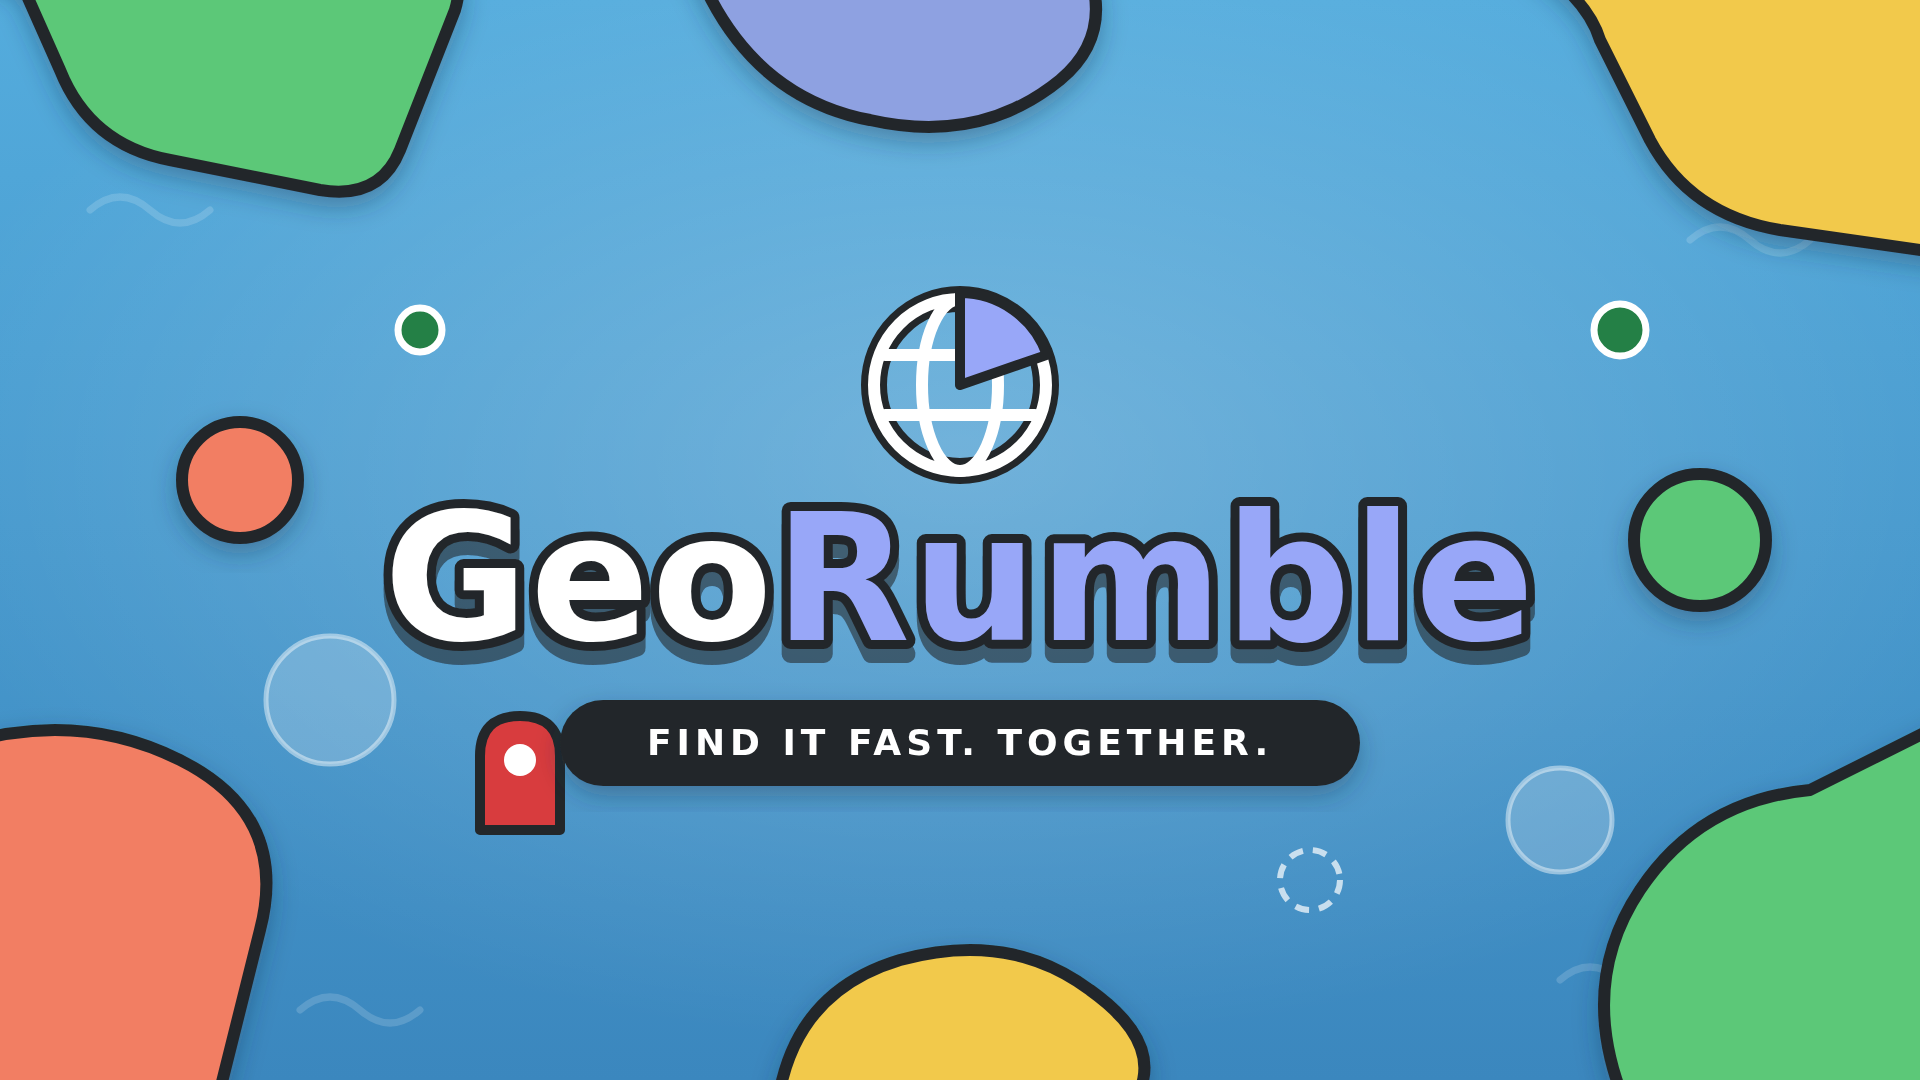
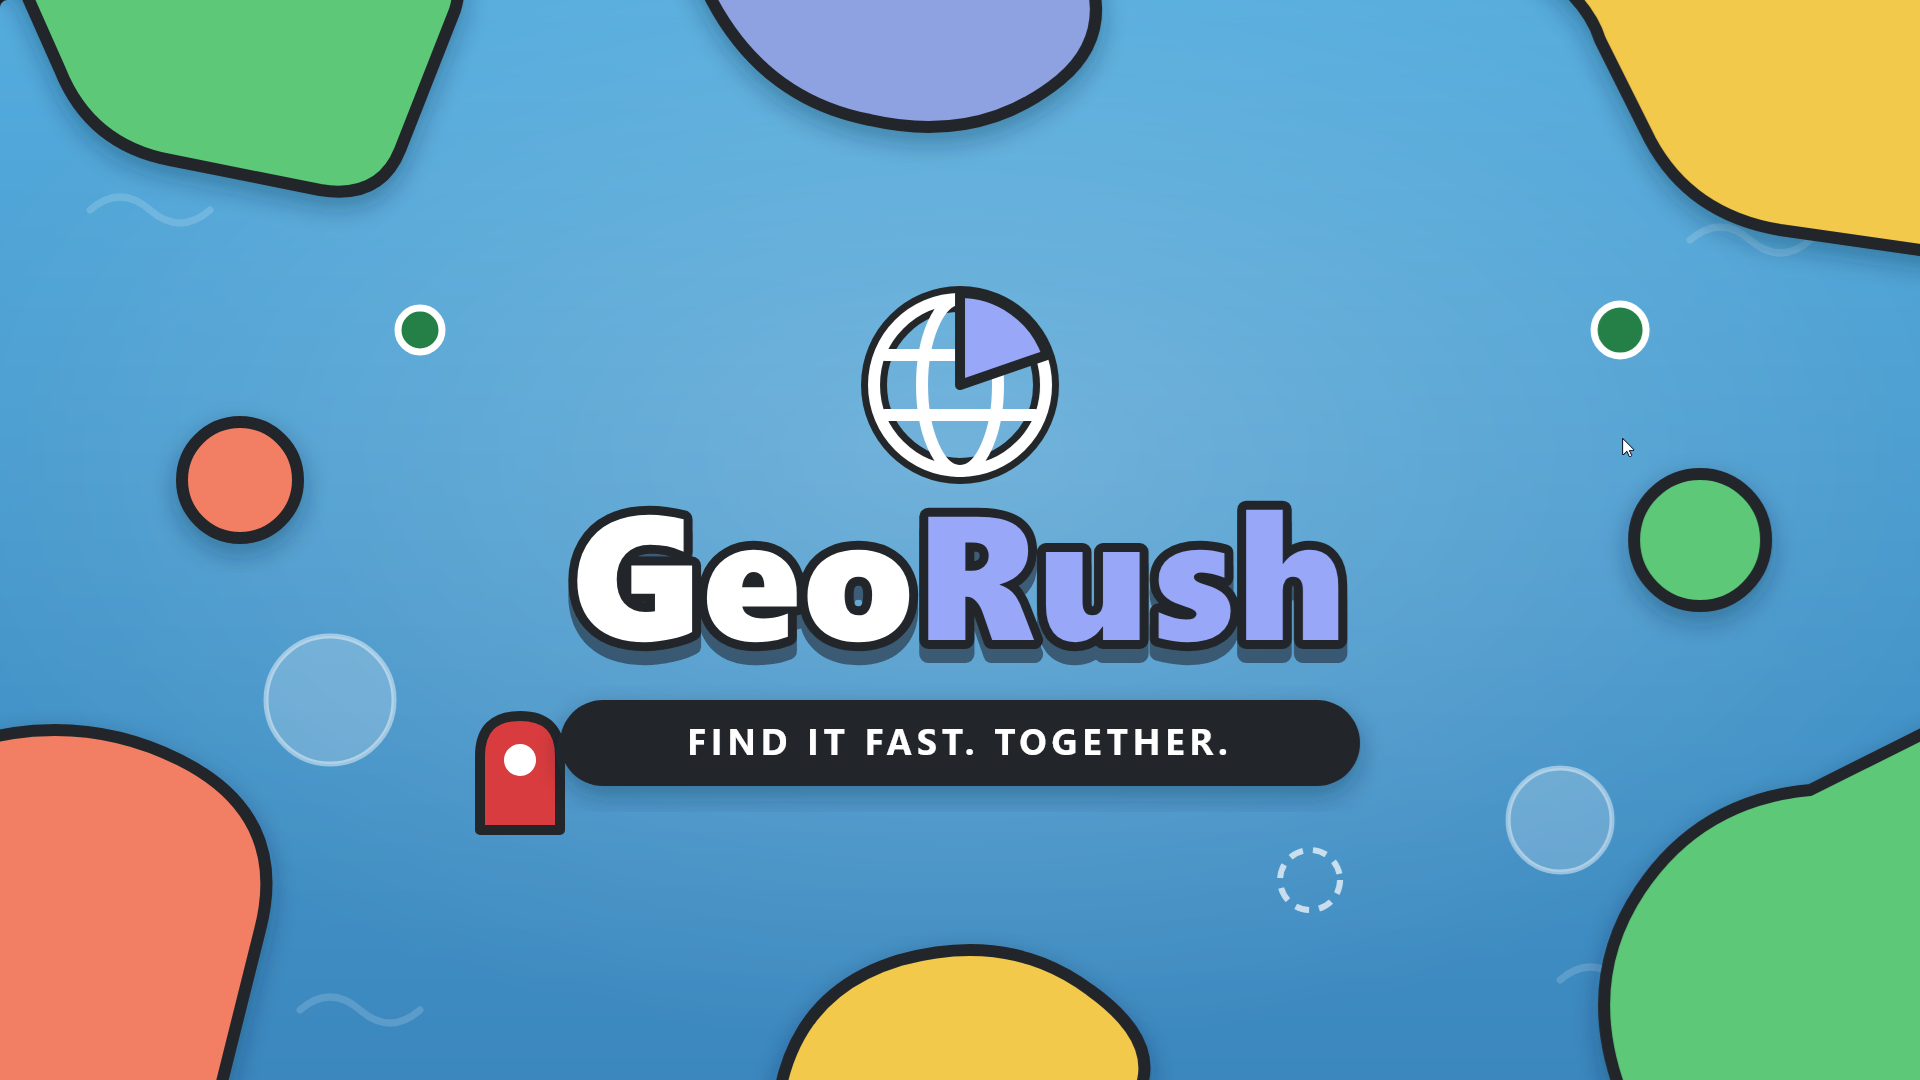
GeoRumble -> GeoRush

Changed region(s): [[0.1875, 0.4583, 0.8125, 0.6417], [0.3125, 0.6722, 0.6562, 0.7028]]

diff --git a/client/src/main.ts b/client/src/main.ts
@@ -15,8 +15,8 @@ import { createPlayScreen } from "./ui/playScreen";
 import { createVictoryScreen } from "./ui/victoryScreen";
 
 const CLIENT_ID = import.meta.env.VITE_DISCORD_CLIENT_ID as string | undefined;
-const NAME_STORAGE_KEY = "georumble:name";
-const ID_STORAGE_KEY = "georumble:userId";
+const NAME_STORAGE_KEY = "georush:name";
+const ID_STORAGE_KEY = "georush:userId";
 
 const RECONNECT_BASE_MS = 1000;
 const RECONNECT_MAX_ATTEMPTS = 6;
@@ -135,7 +135,7 @@ async function resolveIdentity(): Promise<Identity> {
     // that means every player lands in a guest solo room, so say why loudly.
     if (embedded) {
       console.warn(
-        "[georumble] discord sign-in skipped: VITE_DISCORD_CLIENT_ID is not baked into this build",
+        "[georush] discord sign-in skipped: VITE_DISCORD_CLIENT_ID is not baked into this build",
       );
       return { ...fallback, signInFailed: "client id missing from build" };
     }
@@ -156,6 +156,7 @@ async function resolveIdentity(): Promise<Identity> {
     const { code } = await sdk.commands.authorize({
       client_id: CLIENT_ID,
       scope: ["identify", "guilds.members.read"],
+      prompt: "none",
     });
     const tokenResponse = await fetch("/api/token", {
       method: "POST",
@@ -172,7 +173,7 @@ async function resolveIdentity(): Promise<Identity> {
     // sanctioned command, since the activity iframe eats target=_blank.
     setExternalLinkOpener((url) => {
       void sdk.commands.openExternalLink({ url }).catch((error: unknown) => {
-        console.warn("[georumble] openExternalLink failed", error);
+        console.warn("[georush] openExternalLink failed", error);
       });
     });
     let name = auth.user.global_name ?? auth.user.username;
@@ -207,13 +208,13 @@ async function resolveIdentity(): Promise<Identity> {
   } catch (error) {
     // The reason rides into the lobby notice: inside the Discord webview the
     // console is unreachable, and "guest" without a why is undiagnosable.
-    console.warn("[georumble] discord sign-in failed", error);
+    console.warn("[georush] discord sign-in failed", error);
     return { ...fallback, signInFailed: describeError(error).slice(0, 140) };
   }
 }
 
 async function boot(): Promise<void> {
-  console.log(`[georumble] build ${__BUILD_ID__}`);
+  console.log(`[georush] build ${__BUILD_ID__}`);
   const app = document.querySelector<HTMLDivElement>("#app");
   if (!app) {
     throw new Error("#app mount point missing");
@@ -632,5 +633,5 @@ async function boot(): Promise<void> {
 }
 
 boot().catch((error: unknown) => {
-  document.body.textContent = `GeoRumble failed to start: ${String(error)}`;
+  document.body.textContent = `GeoRush failed to start: ${String(error)}`;
 });

diff --git a/client/public/privacy.html b/client/public/privacy.html
@@ -3,7 +3,7 @@
 <head>
 <meta charset="utf-8" />
 <meta name="viewport" content="width=device-width, initial-scale=1" />
-<title>GeoRumble — Privacy Policy</title>
+<title>GeoRush — Privacy Policy</title>
 <style>
   :root { color-scheme: dark; }
   body { margin: 0; background: #171a21; color: #d6dae2; font: 16px/1.65 system-ui, -apple-system, sans-serif; }
@@ -21,7 +21,7 @@
   <h1>Privacy Policy</h1>
   <p class="meta">Last updated: August 23, 2026</p>
 
-  <p>GeoRumble is a collaborative geography quiz you play inside Discord voice channels
+  <p>GeoRush is a collaborative geography quiz you play inside Discord voice channels
   (as a Discord Activity) or in your browser. This policy explains what we handle,
   why, and for how long. In short: we collect as little as possible, keep most of it
   only for the length of a game, and never sell or advertise against your data.</p>
@@ -68,7 +68,7 @@
   <p>We do not send these providers anything beyond what is needed to run a session.</p>
 
   <h2>Children</h2>
-  <p>GeoRumble is played through Discord and follows Discord's age policies. The game is
+  <p>GeoRush is played through Discord and follows Discord's age policies. The game is
   not directed at children under 13 (or the equivalent minimum age in your region), and
   we do not knowingly collect data from them.</p>
 
@@ -78,7 +78,7 @@
     <li>Room state cannot be tied back to you once the room ends — it is deleted, not
       archived.</li>
     <li>For questions or deletion requests, open an issue at
-      <a href="https://github.com/Arham4/georumble">github.com/Arham4/georumble</a>.</li>
+      <a href="https://github.com/Losers-Lab/georush">github.com/Losers-Lab/georush</a>.</li>
   </ul>
 
   <h2>Changes</h2>

diff --git a/client/public/terms.html b/client/public/terms.html
@@ -3,7 +3,7 @@
 <head>
 <meta charset="utf-8" />
 <meta name="viewport" content="width=device-width, initial-scale=1" />
-<title>GeoRumble — Terms of Service</title>
+<title>GeoRush — Terms of Service</title>
 <style>
   :root { color-scheme: dark; }
   body { margin: 0; background: #171a21; color: #d6dae2; font: 16px/1.65 system-ui, -apple-system, sans-serif; }
@@ -21,7 +21,7 @@
   <h1>Terms of Service</h1>
   <p class="meta">Last updated: August 23, 2026</p>
 
-  <p>Welcome to GeoRumble, a collaborative geography quiz played as a Discord Activity
+  <p>Welcome to GeoRush, a collaborative geography quiz played as a Discord Activity
   or in a browser. By using the game, you agree to these terms. If you don't agree,
   please don't use it.</p>
 
@@ -46,7 +46,7 @@
 
   <h2>Content and licenses</h2>
   <ul>
-    <li>The GeoRumble software, branding, and design belong to the project owner. All
+    <li>The GeoRush software, branding, and design belong to the project owner. All
       rights reserved except as needed for you to play.</li>
     <li>Map data in the shipped quiz packs is derived from public-domain sources
       (the <em>us-atlas</em> project). Geography is hard enough without copyright
@@ -77,7 +77,7 @@
 
   <h2>Contact</h2>
   <p>Questions about these terms? Open an issue at
-  <a href="https://github.com/Arham4/georumble">github.com/Arham4/georumble</a>.</p>
+  <a href="https://github.com/Losers-Lab/georush">github.com/Losers-Lab/georush</a>.</p>
 </main>
 </body>
 </html>

diff --git a/client/src/ui/linkButtons.ts b/client/src/ui/linkButtons.ts
@@ -1,6 +1,6 @@
 /** Community invite and source repo, shown on the boot and lobby screens. */
 export const DISCORD_INVITE_URL = "https://discord.gg/wGQfD6aacx";
-export const GITHUB_URL = "https://github.com/Losers-Lab/georumble";
+export const GITHUB_URL = "https://github.com/Losers-Lab/georush";
 
 // GitHub's official mark-github octicon (16x16 path data).
 const GITHUB_MARK =
@@ -53,7 +53,7 @@ export function createDiscordInviteLink(): HTMLAnchorElement {
 export function createGithubLink(): HTMLAnchorElement {
   const link = externalLink(GITHUB_URL);
   link.classList.add("github-corner");
-  link.title = "GeoRumble on GitHub";
+  link.title = "GeoRush on GitHub";
   link.setAttribute("aria-label", "Source on GitHub");
   const svg = document.createElementNS("http://www.w3.org/2000/svg", "svg");
   svg.setAttribute("viewBox", "0 0 16 16");

diff --git a/assets/brand/store/cover.html b/assets/brand/store/cover.html
@@ -81,7 +81,7 @@
   <text x="960" y="640" text-anchor="middle" font-size="176" font-weight="800" letter-spacing="2"
         stroke="#23272A" stroke-width="18" stroke-linejoin="round" paint-order="stroke"
         filter="url(#titleShadow)" font-family="system-ui, 'DejaVu Sans', sans-serif">
-    <tspan fill="#FFFFFF">Geo</tspan><tspan fill="#98A7F8">Rumble</tspan>
+    <tspan fill="#FFFFFF">Geo</tspan><tspan fill="#98A7F8">Rush</tspan>
   </text>
 
   <g filter="url(#softShadow)">

diff --git a/client/src/audio/sfx.ts b/client/src/audio/sfx.ts
@@ -2,7 +2,7 @@
 // background music — just interaction confirmation. The context is lazy
 // (created on the first gesture-driven call, per autoplay policy) and the
 // mute state persists per device.
-const MUTED_KEY = "georumble:sfx-muted";
+const MUTED_KEY = "georush:sfx-muted";
 
 let ctx: AudioContext | null = null;
 let muted = false;

diff --git a/client/index.html b/client/index.html
@@ -5,7 +5,7 @@
     <meta name="viewport" content="width=device-width, initial-scale=1.0, viewport-fit=cover" />
     <meta name="theme-color" content="#23272A" />
     <link rel="icon" type="image/svg+xml" href="/brand/favicon.svg" />
-    <title>GeoRumble</title>
+    <title>GeoRush</title>
   </head>
   <body>
     <div id="app"></div>

diff --git a/client/src/ui/victoryScreen.ts b/client/src/ui/victoryScreen.ts
@@ -4,7 +4,7 @@ import { createCarryWheel } from "./carryWheel";
 import { launchConfetti } from "./confetti";
 import { sfx } from "../audio/sfx";
 
-const BEST_PREFIX = "georumble:best:";
+const BEST_PREFIX = "georush:best:";
 
 function loadBest(packId: string): number | null {
   try {

diff --git a/docs/research/discord-activities.md b/docs/research/discord-activities.md
@@ -111,7 +111,7 @@ const auth = await discordSdk.commands.authenticate({ access_token });
 `expires_in` is seconds; the example shows 604800 (7 days). Refresh with `grant_type=refresh_token` + `refresh_token`. Revoke via `https://discord.com/api/oauth2/token/revoke`.
 - <https://docs.discord.com/developers/topics/oauth2>
 
-**Scopes relevant to GeoRumble** (descriptions quoted from the OAuth2 scope table; scope list cross-checked against SDK v2.5.0's `OAuthScopes` union):
+**Scopes relevant to GeoRush** (descriptions quoted from the OAuth2 scope table; scope list cross-checked against SDK v2.5.0's `OAuthScopes` union):
 - `identify` — "allows /users/@me without email". Needed to identify the local player. Required by `userSettingsGetLocale` and `CURRENT_USER_UPDATE` event.
 - `applications.commands` — "allows your app to add commands to a guild - included by default with the bot scope". Requested by the official Activity tutorial.
 - `guilds` — "allows /users/@me/guilds …"; also the scope required by `getChannel` for guild channels.
@@ -150,7 +150,7 @@ Constructor options (SDK v2.5.0): `{ disableConsoleLogOverride: boolean }` — s
 **Properties available immediately after construction** (before `ready()`): `clientId`, `instanceId`, `customId`, `referrerId`, `platform` (`'web' | 'ios' | 'android'`), `guildId`, `channelId`, `locationId`, `sdkVersion`, `mobileAppVersion`, `configuration`, `commands`.
 - SDK v2.5.0 `Discord.d.ts` / `interface.d.ts`
 
-**Key commands** (full table in the reference; the ones GeoRumble needs):
+**Key commands** (full table in the reference; the ones GeoRush needs):
 
 | Command | Args → Response | Scopes | Notes |
 |---|---|---|---|
@@ -168,7 +168,7 @@ Constructor options (SDK v2.5.0): `{ disableConsoleLogOverride: boolean }` — s
 - <https://docs.discord.com/developers/developer-tools/embedded-app-sdk>
 - SDK v2.5.0 `Discord.d.ts`
 
-**Enumerating other players (the important one for GeoRumble).**
+**Enumerating other players (the important one for GeoRush).**
 
 The current, documented API is `getInstanceConnectedParticipants()`:
 
@@ -221,7 +221,7 @@ Limits of this API, as documented:
 
 - <https://docs.discord.com/developers/developer-tools/embedded-app-sdk>
 
-**SPA requirement:** "This SDK is intended for use by a single-page application." Non-SPA frameworks must be nested inside the Activity's top-level SPA. GeoRumble's Vite client qualifies.
+**SPA requirement:** "This SDK is intended for use by a single-page application." Non-SPA frameworks must be nested inside the Activity's top-level SPA. GeoRush's Vite client qualifies.
 - <https://docs.discord.com/developers/activities/how-activities-work>
 
 **Server-side verification (anti-spoofing).** Anything the client sends (user ids, channel, participants) can be mocked. To verify an instance server-side:
@@ -250,7 +250,7 @@ A valid instance returns `{application_id, instance_id, launch_id, location: {ki
 - **Cookies** (if you use session cookies): domain must match `{clientId}.discordsays.com` and you must "explicitly set `SameSite=None Partitioned`" — browsers refuse stricter cookies inside third-party iframes.
   - <https://docs.discord.com/developers/activities/development-guides/networking>
 
-For GeoRumble this means the Vite client opens a `wss://` connection back through the proxied origin (URL-mapped prefix → the Cloudflare Worker), and the Worker/DO fan out state. No direct client↔Worker bypass is possible from inside the iframe.
+For GeoRush this means the Vite client opens a `wss://` connection back through the proxied origin (URL-mapped prefix → the Cloudflare Worker), and the Worker/DO fan out state. No direct client↔Worker bypass is possible from inside the iframe.
 
 ---
 
@@ -315,7 +315,7 @@ Then set URL Mapping `/` → `funky-jogging-bunny.trycloudflare.com` and save. "
 - <https://docs.discord.com/developers/activities/building-an-activity>
 - <https://docs.discord.com/developers/activities/development-guides/local-development>
 
-This matches GeoRumble's Docker setup with a cloudflared sidecar: map the Worker/Vite port through the tunnel, point the portal mapping at the `*.trycloudflare.com` host.
+This matches GeoRush's Docker setup with a cloudflared sidecar: map the Worker/Vite port through the tunnel, point the portal mapping at the `*.trycloudflare.com` host.
 
 **Launching in dev:** enable Developer Mode (User Settings → Advanced), join a voice channel, click the rocket button — owned/team apps appear in the **Developer Activity Shelf** (web/desktop; mobile has its own Developer Mode toggle). Alternative: "Application URL Override" loads a dev server directly, bypassing the proxy (then full URLs are needed and HTTPS is required on web/desktop; "HTTPS is not required for mobile").
 - <https://docs.discord.com/developers/activities/development-guides/local-development>
@@ -341,11 +341,11 @@ From the official rate-limits page (HTTP API; there is **no Activities-specific 
 - Production-readiness adds: respect `retry_after` (example in the Activity starter repo), and new SDK commands may be missing on old clients → catch error code `INVALID_COMMAND`.
 - <https://docs.discord.com/developers/activities/development-guides/production-readiness>
 
-For GeoRumble: game traffic should flow over the WebSocket to the Durable Object, not through Discord's HTTP API; Discord API calls (token exchange, activity-instance verification, `users/@me`) are low-volume and well inside the 50 req/s global limit.
+For GeoRush: game traffic should flow over the WebSocket to the Durable Object, not through Discord's HTTP API; Discord API calls (token exchange, activity-instance verification, `users/@me`) are low-volume and well inside the 50 req/s global limit.
 
 ---
 
-## 8. GeoRumble-relevant synthesis
+## 8. GeoRush-relevant synthesis
 
 - Client = Vite SPA; SDK init → `ready()` → `authorize({scope: ['identify','applications.commands','guilds'], prompt: 'none'})` → POST code to Worker `/api/token` → `authenticate({access_token})`.
 - Roster = `getInstanceConnectedParticipants()` on load + `ACTIVITY_INSTANCE_PARTICIPANTS_UPDATE` subscription; `discordSdk.channelId` / `instanceId` identify the room server-side (verify via the Activity Instance API with a bot token).

diff --git a/docs/research/seterra-mechanics.md b/docs/research/seterra-mechanics.md
@@ -1,4 +1,4 @@
-# Map-Quiz Genre Mechanics — Design Synthesis for GeoRumble
+# Map-Quiz Genre Mechanics — Design Synthesis for GeoRush
 
 Date: 2026-08-22
 Status: research deliverable; proposals only — no code changed.
@@ -8,7 +8,7 @@ Status: research deliverable; proposals only — no code changed.
 This document synthesizes the well-known public mechanics of the "identify the region on a map"
 quiz genre (found in many independent products: clickable-map quiz sites, classroom labeling tools,
 and mobile geography trainers). It is written in our own words as an original game-design synthesis.
-GeoRumble may reference the genre descriptively in marketing copy only — never in title, logo, or
+GeoRush may reference the genre descriptively in marketing copy only — never in title, logo, or
 branding — and we do not copy any third party's maps, color schemes, wording, or assets. Everything
 below describes mechanics we implement ourselves against our own map data and visual identity.
 
@@ -79,7 +79,7 @@ Content is organized as a catalog of quizzes ("packs" in our terms) along two ax
   the main difficulty dial and the main curriculum-scaffolding tool: start small, grow as mastery
   shows.
 
-Implication for GeoRumble: model a pack as `(area, featureClass, featureIds[])` with derived
+Implication for GeoRush: model a pack as `(area, featureClass, featureIds[])` with derived
 variants (full/starter/custom subsets) so one map asset serves many difficulties.
 
 ## 5. Session shape

diff --git a/assets/brand/store/README.md b/assets/brand/store/README.md
@@ -1,6 +1,6 @@
 # Discord store art
 
-Original GeoRumble artwork for the Developer Portal's **Activities → Art Assets** and
+Original GeoRush artwork for the Developer Portal's **Activities → Art Assets** and
 **Settings → General Information**. The `*.html` files are the masters — edit and re-render
 with a headless browser at the exact viewport size (see each file's `width`/`height`).
 

diff --git a/docs/mappack-contract.md b/docs/mappack-contract.md
@@ -158,4 +158,4 @@ Enforced by `scripts/validate-mappack.mjs`:
   the same `packId`. Outlying territory (far-east Russia, Canaries, French Guiana) extends
   past the canvas and clips at the render edge.
 - Only public-domain map data may be committed here. All artwork in `assets/brand/` is
-  original to GeoRumble.
+  original to GeoRush.
